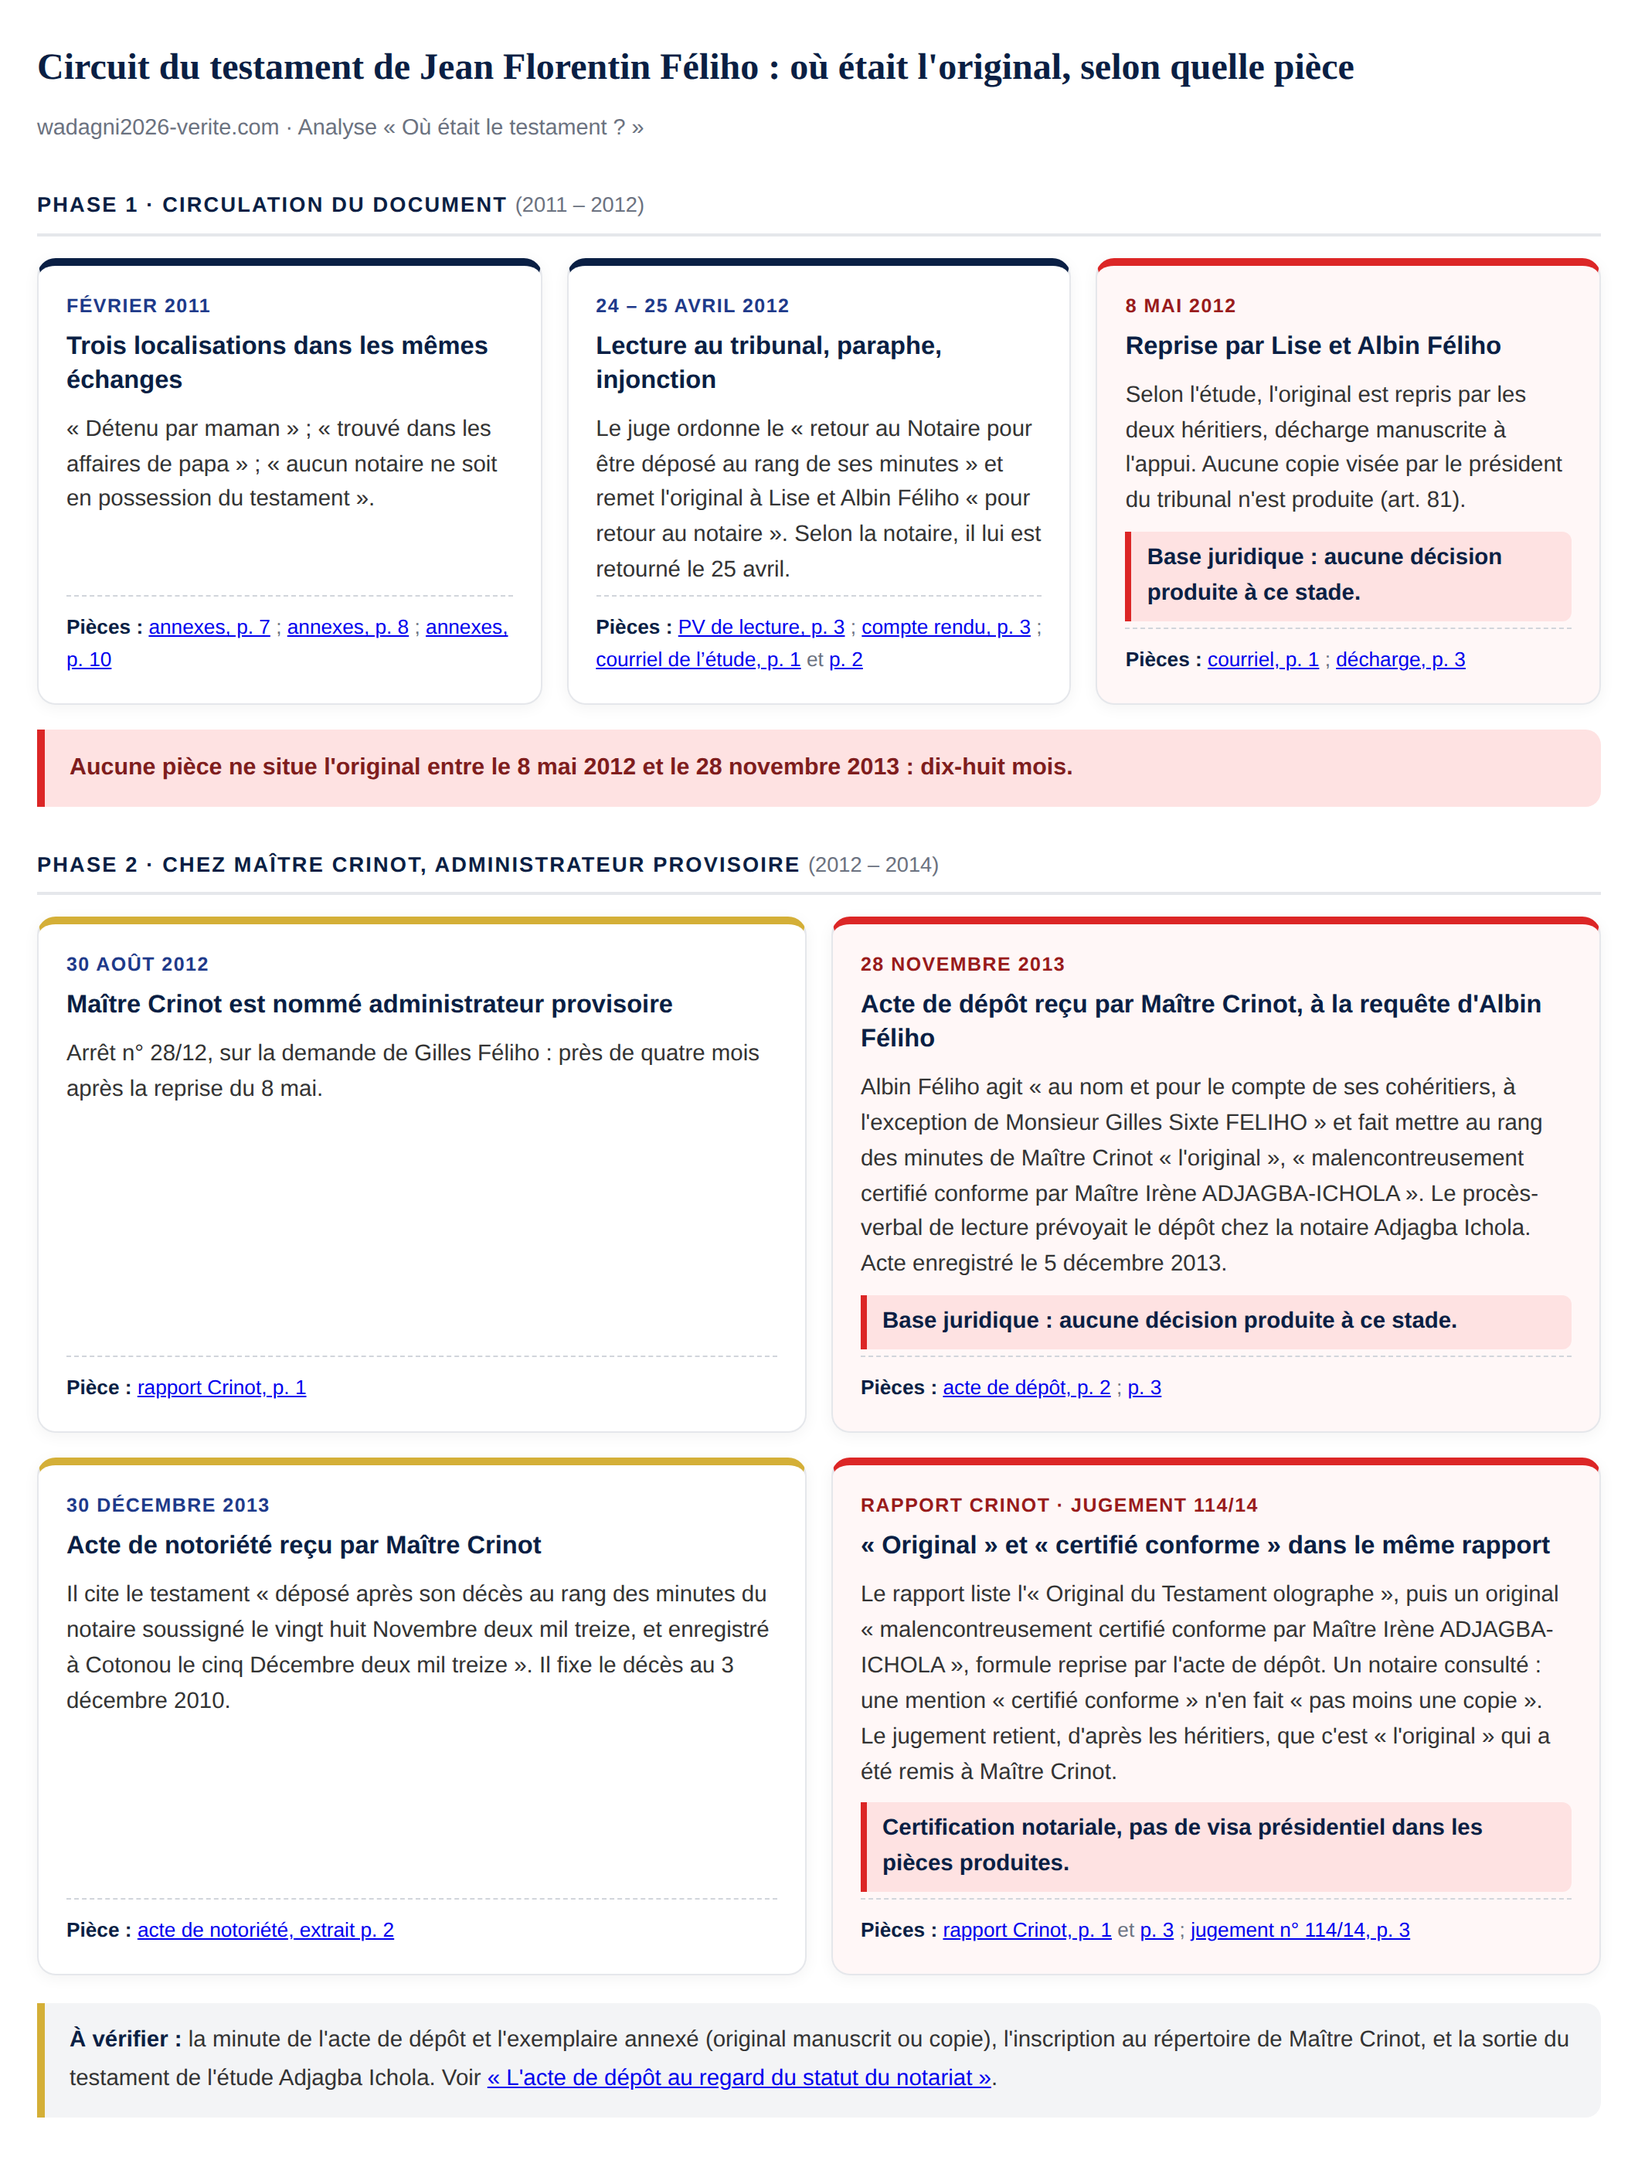
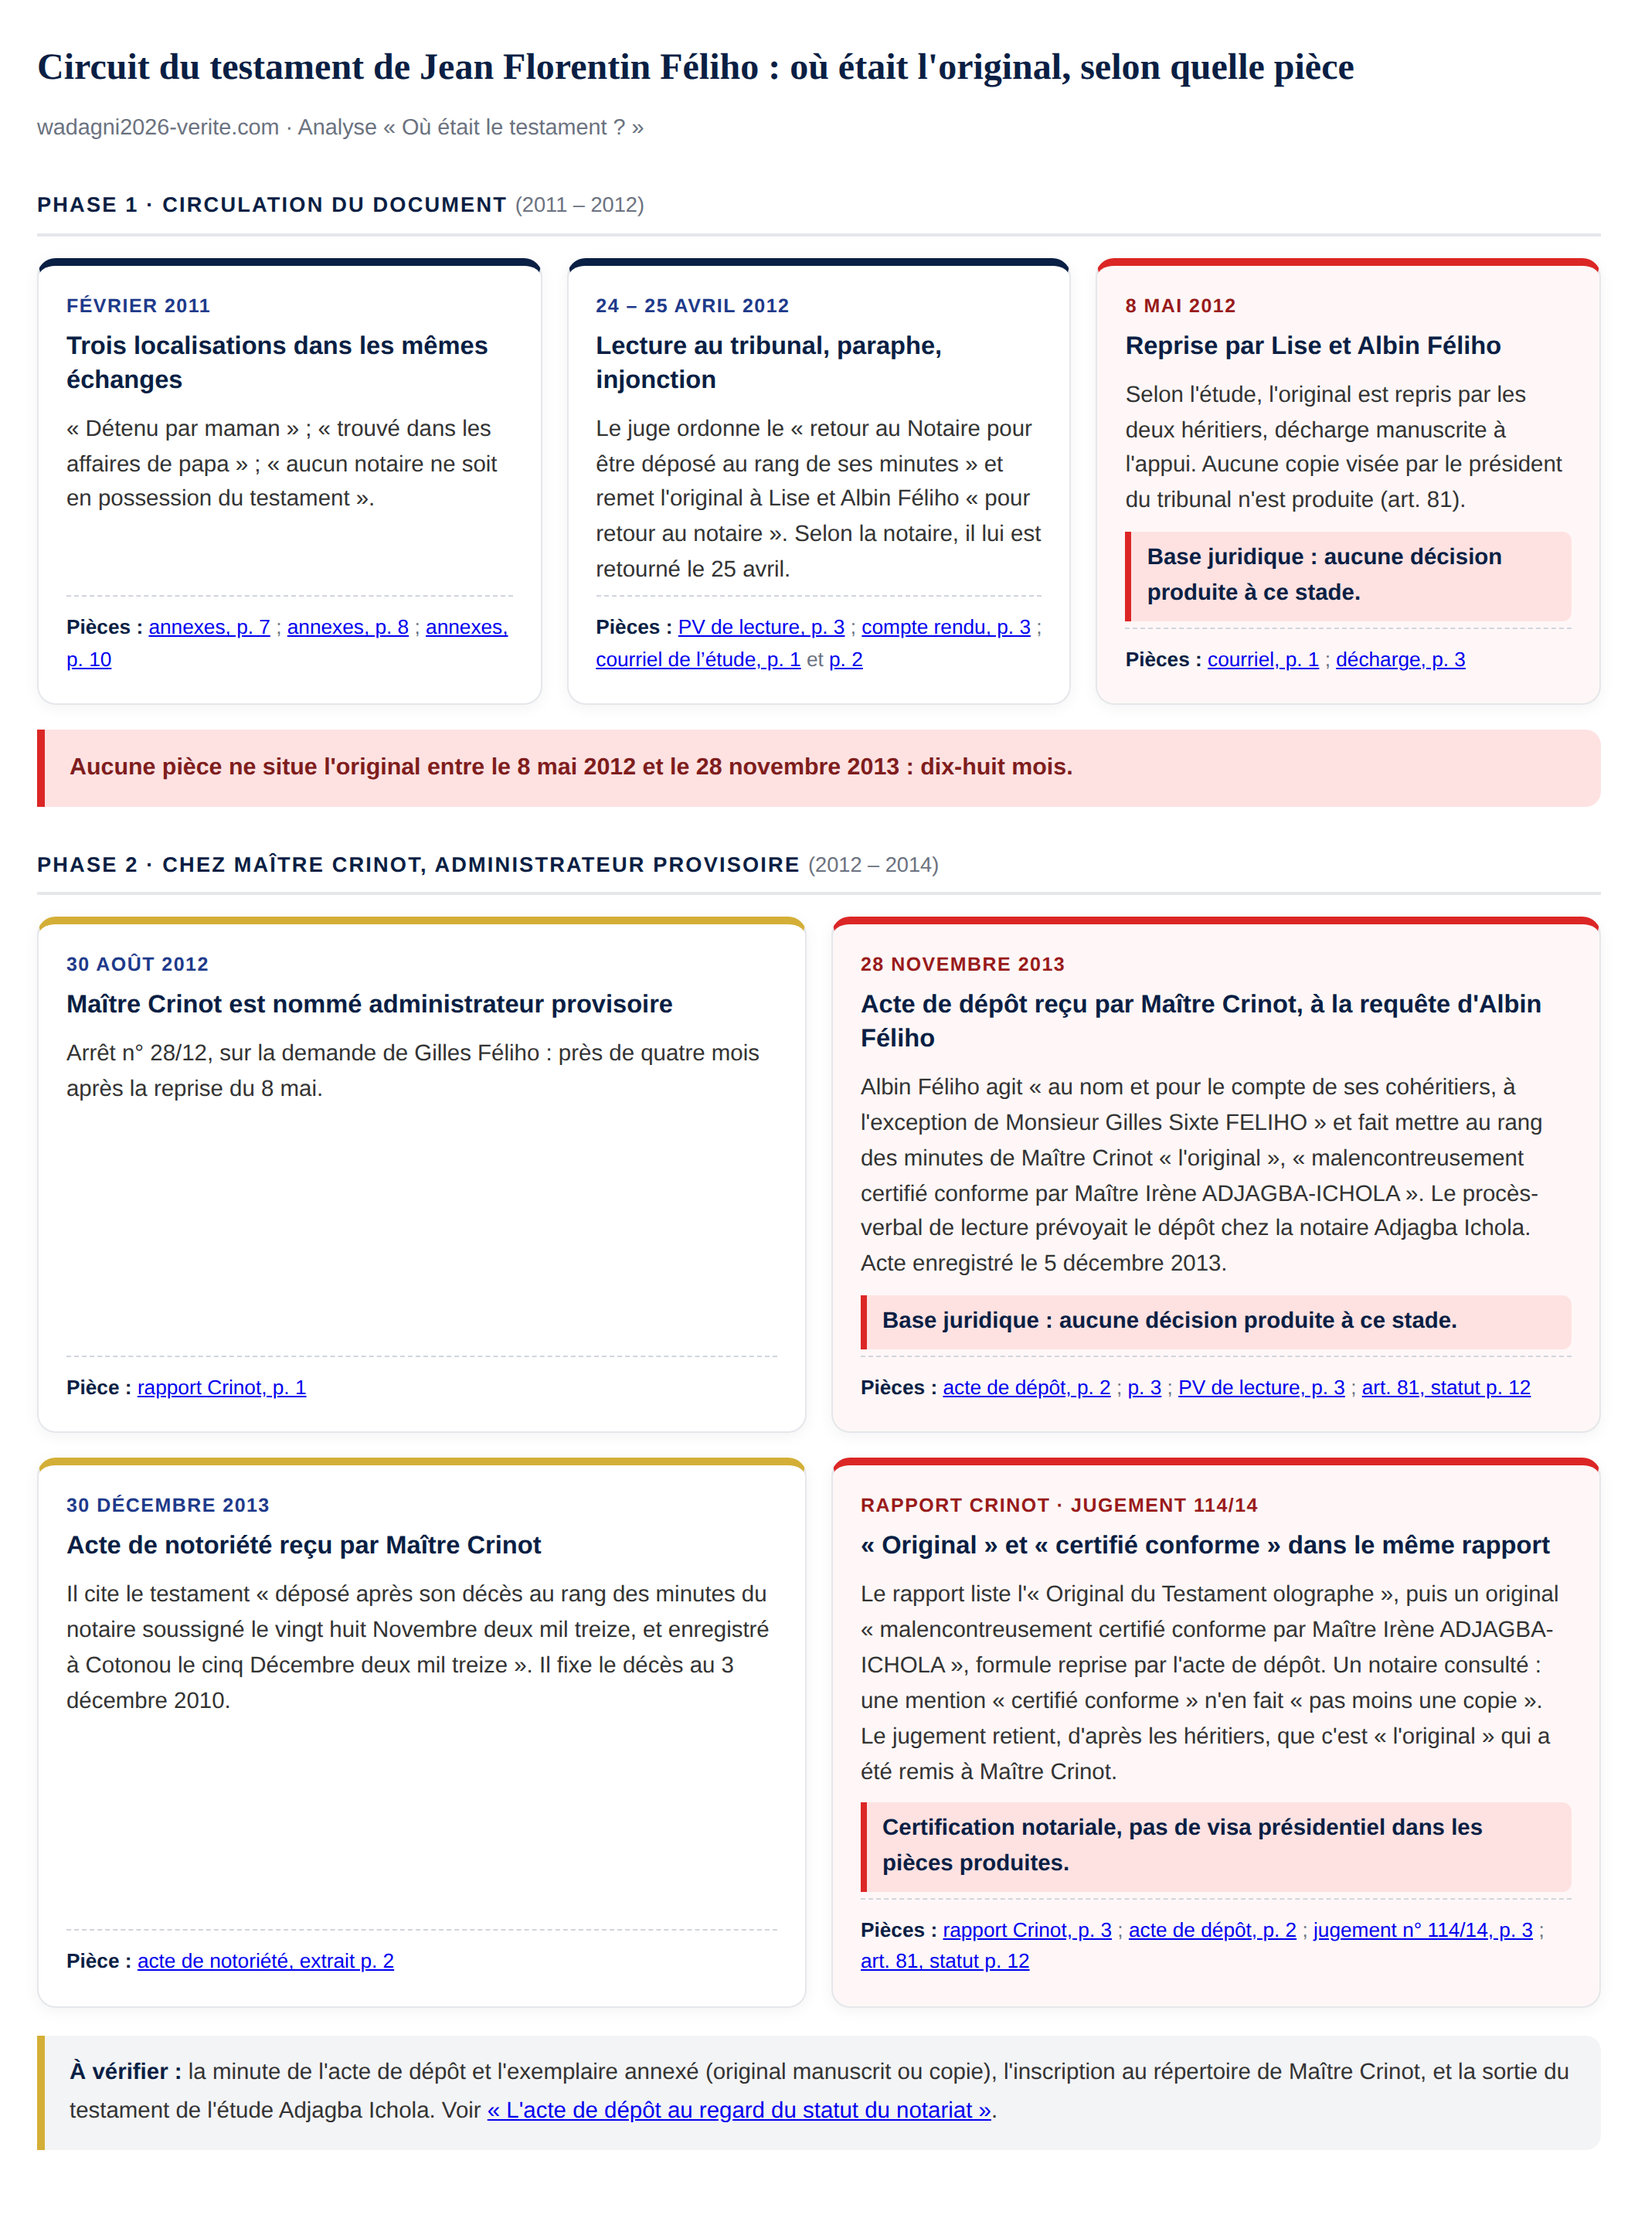
Liens vers l'article 81, le procès-verbal et l'acte de dépôt sur les mentions de base légale (tableau et infographie)
Claude-Session: https://claude.ai/code/session_01R44YA9U9cKD7mUUuXp2DTB

Changed region(s): [[0.0311, 0.0934, 0.9962, 0.903], [0.0311, 0.8719, 0.6226, 0.9653], [0.0311, 0.0311, 0.3736, 0.0623]]

diff --git a/analyse-localisation-testament-par-date.html b/analyse-localisation-testament-par-date.html
@@ -724,7 +724,7 @@
                     <tr>
                         <td><strong>Certification de conformité</strong></td>
                         <td>L'original est dit « malencontreusement certifié conforme par Maître Irène ADJAGBA-ICHOLA ».</td>
-                        <td>Art. 81 : copie dont la conformité est mentionnée par le président du tribunal de première instance.</td>
+                        <td>Art. 81 (<a href="pieces/loi-2002-015-art-81.pdf" target="_blank" rel="noopener">statut, p. 12</a>) : copie dont la conformité est mentionnée par le président du tribunal de première instance.</td>
                         <td><span class="alerte">Certification notariale, pas de visa présidentiel dans les pièces produites.</span> (<a href="pieces/rapport-crinot-extrait-p3.pdf" target="_blank" rel="noopener">rapport Crinot, p. 3</a> ; <a href="pieces/acte-depot-testament-crinot-2013-11-28.pdf#page=2" target="_blank" rel="noopener">acte de dépôt, p. 2</a>).</td>
                     </tr>
                     <tr>
@@ -791,7 +791,7 @@
                         <h3>Acte de dépôt reçu par Maître Crinot, à la requête d'Albin Féliho</h3>
                         <p>Albin Féliho agit « au nom et pour le compte de ses cohéritiers, à l'exception de Monsieur Gilles Sixte FELIHO » et fait mettre au rang des minutes de Maître Crinot « l'original », « malencontreusement certifié conforme par Maître Irène ADJAGBA-ICHOLA ». Le procès-verbal de lecture prévoyait le dépôt chez la notaire Adjagba Ichola. Acte enregistré le 5 décembre 2013.</p>
                         <p class="base-jur"><strong>Base juridique : aucune décision produite à ce stade.</strong></p>
-                        <p class="pieces"><strong>Pièces :</strong> <a href="pieces/acte-depot-testament-crinot-2013-11-28.pdf#page=2" target="_blank" rel="noopener">acte de dépôt, p. 2</a> ; <a href="pieces/acte-depot-testament-crinot-2013-11-28.pdf#page=3" target="_blank" rel="noopener">p. 3</a></p>
+                        <p class="pieces"><strong>Pièces :</strong> <a href="pieces/acte-depot-testament-crinot-2013-11-28.pdf#page=2" target="_blank" rel="noopener">acte de dépôt, p. 2</a> ; <a href="pieces/acte-depot-testament-crinot-2013-11-28.pdf#page=3" target="_blank" rel="noopener">p. 3</a> ; <a href="pieces/pv-lecture-testament-2012-p3.pdf" target="_blank" rel="noopener">PV de lecture, p. 3</a> ; <a href="pieces/loi-2002-015-art-81.pdf" target="_blank" rel="noopener">art. 81, statut p. 12</a></p>
                     </li>
                     <li class="etape neutre">
                         <span class="etape-date">30 décembre 2013</span>
@@ -804,7 +804,7 @@
                         <h3>« Original » et « certifié conforme » dans le même rapport</h3>
                         <p>Le rapport liste l'« Original du Testament olographe », puis un original « malencontreusement certifié conforme par Maître Irène ADJAGBA-ICHOLA », formule reprise par l'acte de dépôt. Un notaire consulté : une mention « certifié conforme » n'en fait « pas moins une copie ». Le jugement retient, d'après les héritiers, que c'est « l'original » qui a été remis à Maître Crinot.</p>
                         <p class="base-jur"><strong>Certification notariale, pas de visa présidentiel dans les pièces produites.</strong></p>
-                        <p class="pieces"><strong>Pièces :</strong> <a href="pieces/rapport-crinot-extrait-p1.pdf" target="_blank" rel="noopener">rapport Crinot, p. 1</a> et <a href="pieces/rapport-crinot-extrait-p3.pdf" target="_blank" rel="noopener">p. 3</a> ; <a href="pieces/jugement-2014-p3-crinot-testament.pdf" target="_blank" rel="noopener">jugement n° 114/14, p. 3</a></p>
+                        <p class="pieces"><strong>Pièces :</strong> <a href="pieces/rapport-crinot-extrait-p3.pdf" target="_blank" rel="noopener">rapport Crinot, p. 3</a> ; <a href="pieces/acte-depot-testament-crinot-2013-11-28.pdf#page=2" target="_blank" rel="noopener">acte de dépôt, p. 2</a> ; <a href="pieces/jugement-2014-p3-crinot-testament.pdf" target="_blank" rel="noopener">jugement n° 114/14, p. 3</a> ; <a href="pieces/loi-2002-015-art-81.pdf" target="_blank" rel="noopener">art. 81, statut p. 12</a></p>
                     </li>
                 </ol>
                 <p class="a-verifier"><strong>À vérifier :</strong> la minute de l'acte de dépôt et l'exemplaire annexé (original manuscrit ou copie), l'inscription au répertoire de Maître Crinot, et la sortie du testament de l'étude Adjagba Ichola. Voir <a href="#statut-minutes">« L'acte de dépôt au regard du statut du notariat »</a>.</p>
